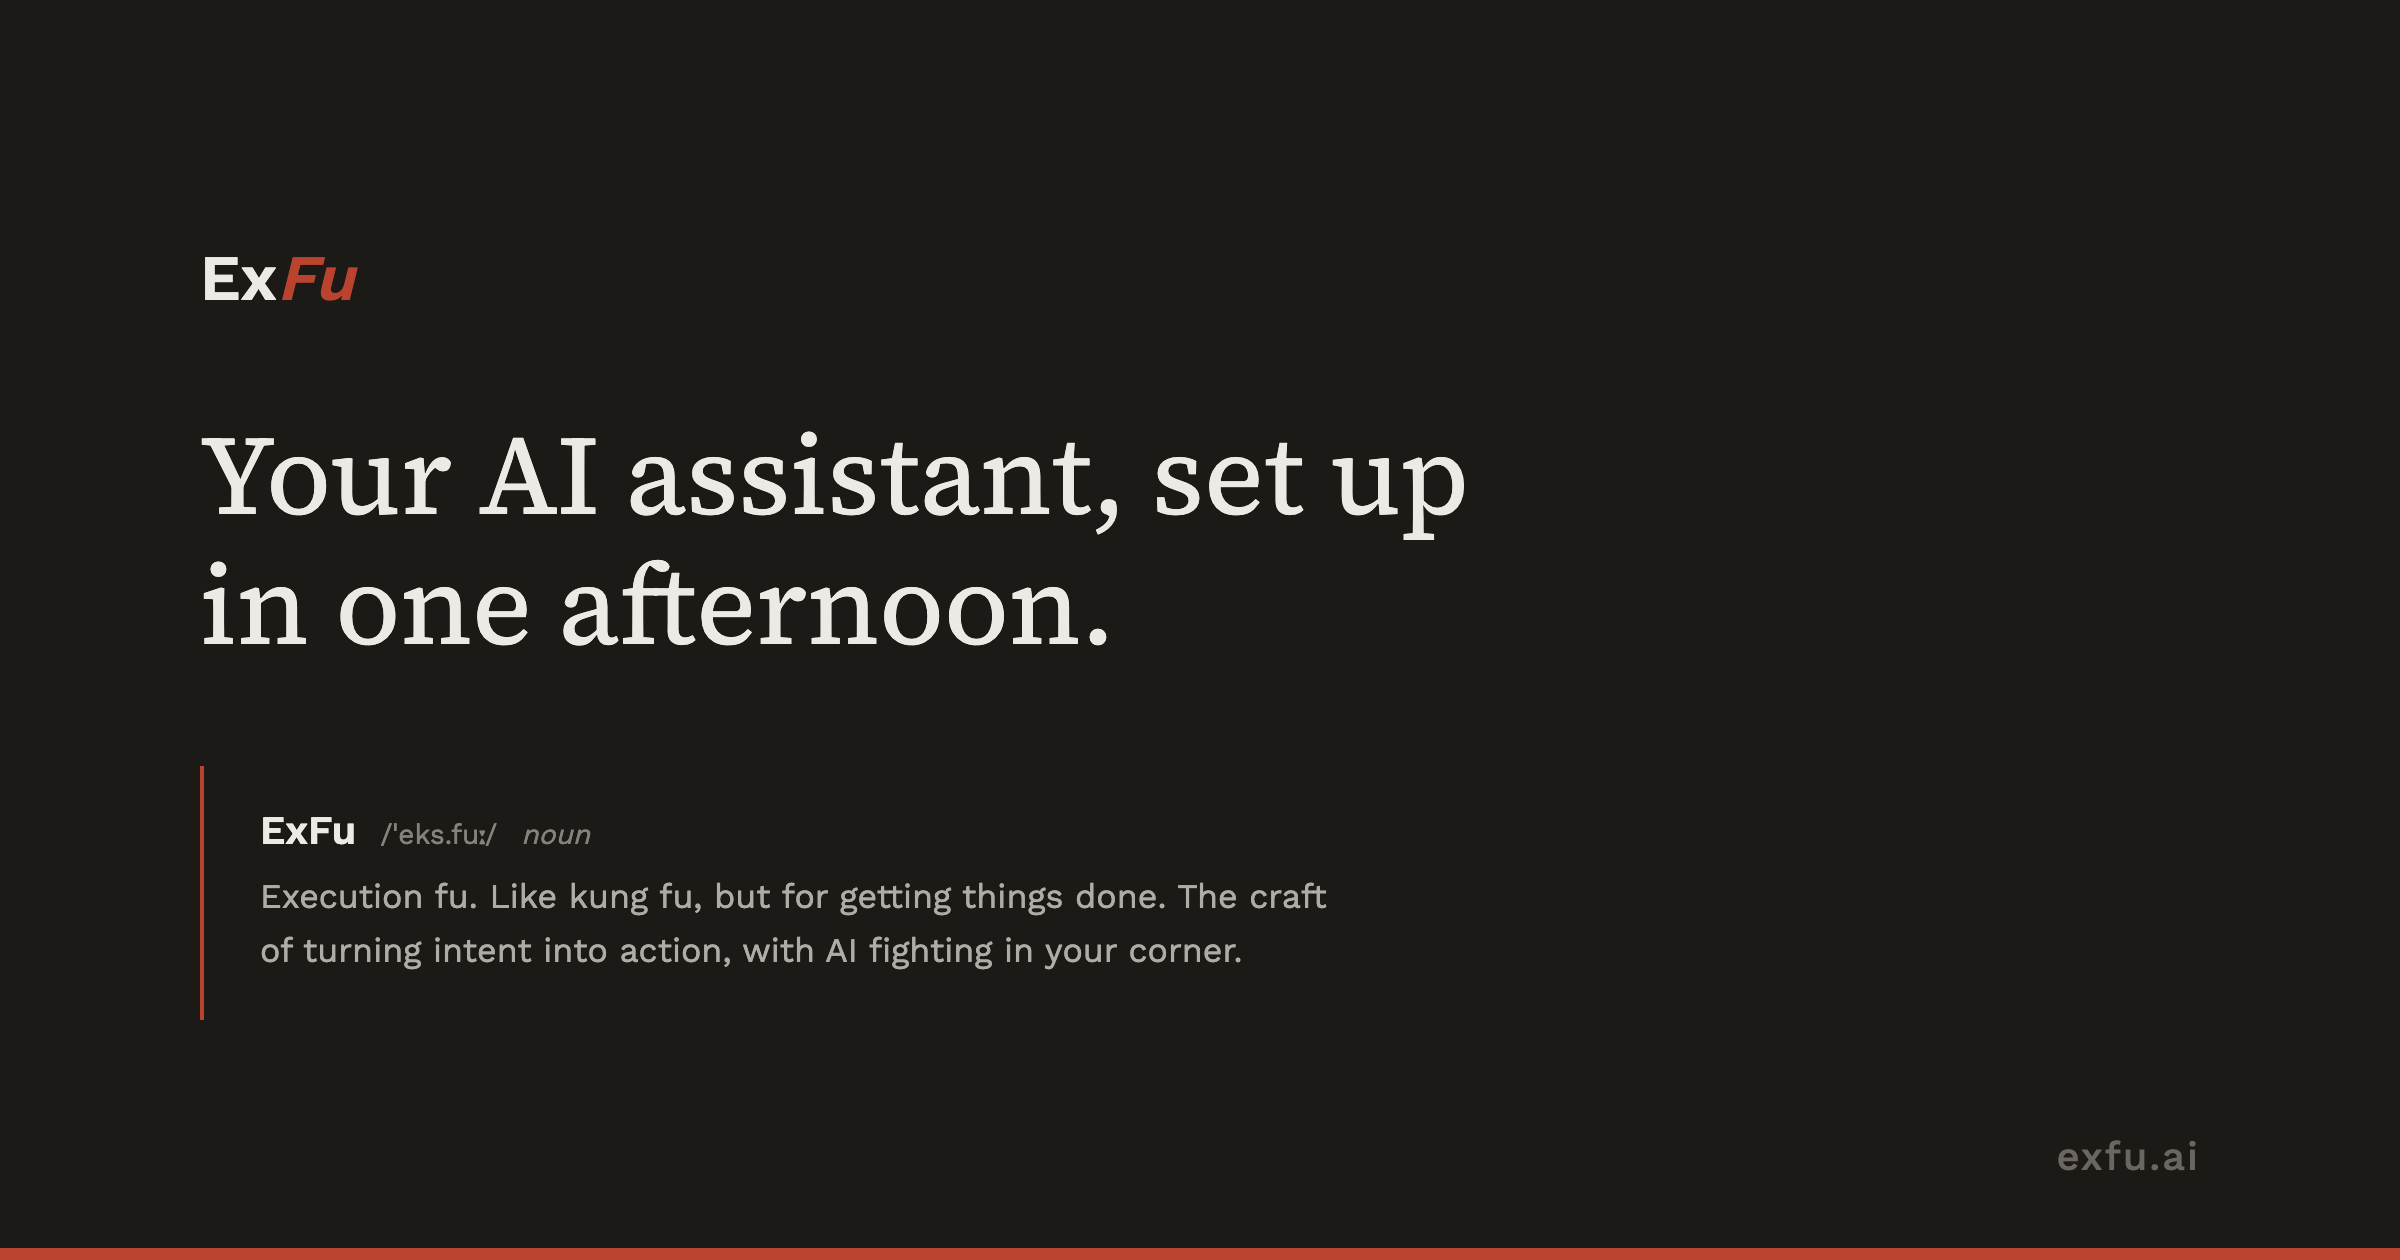
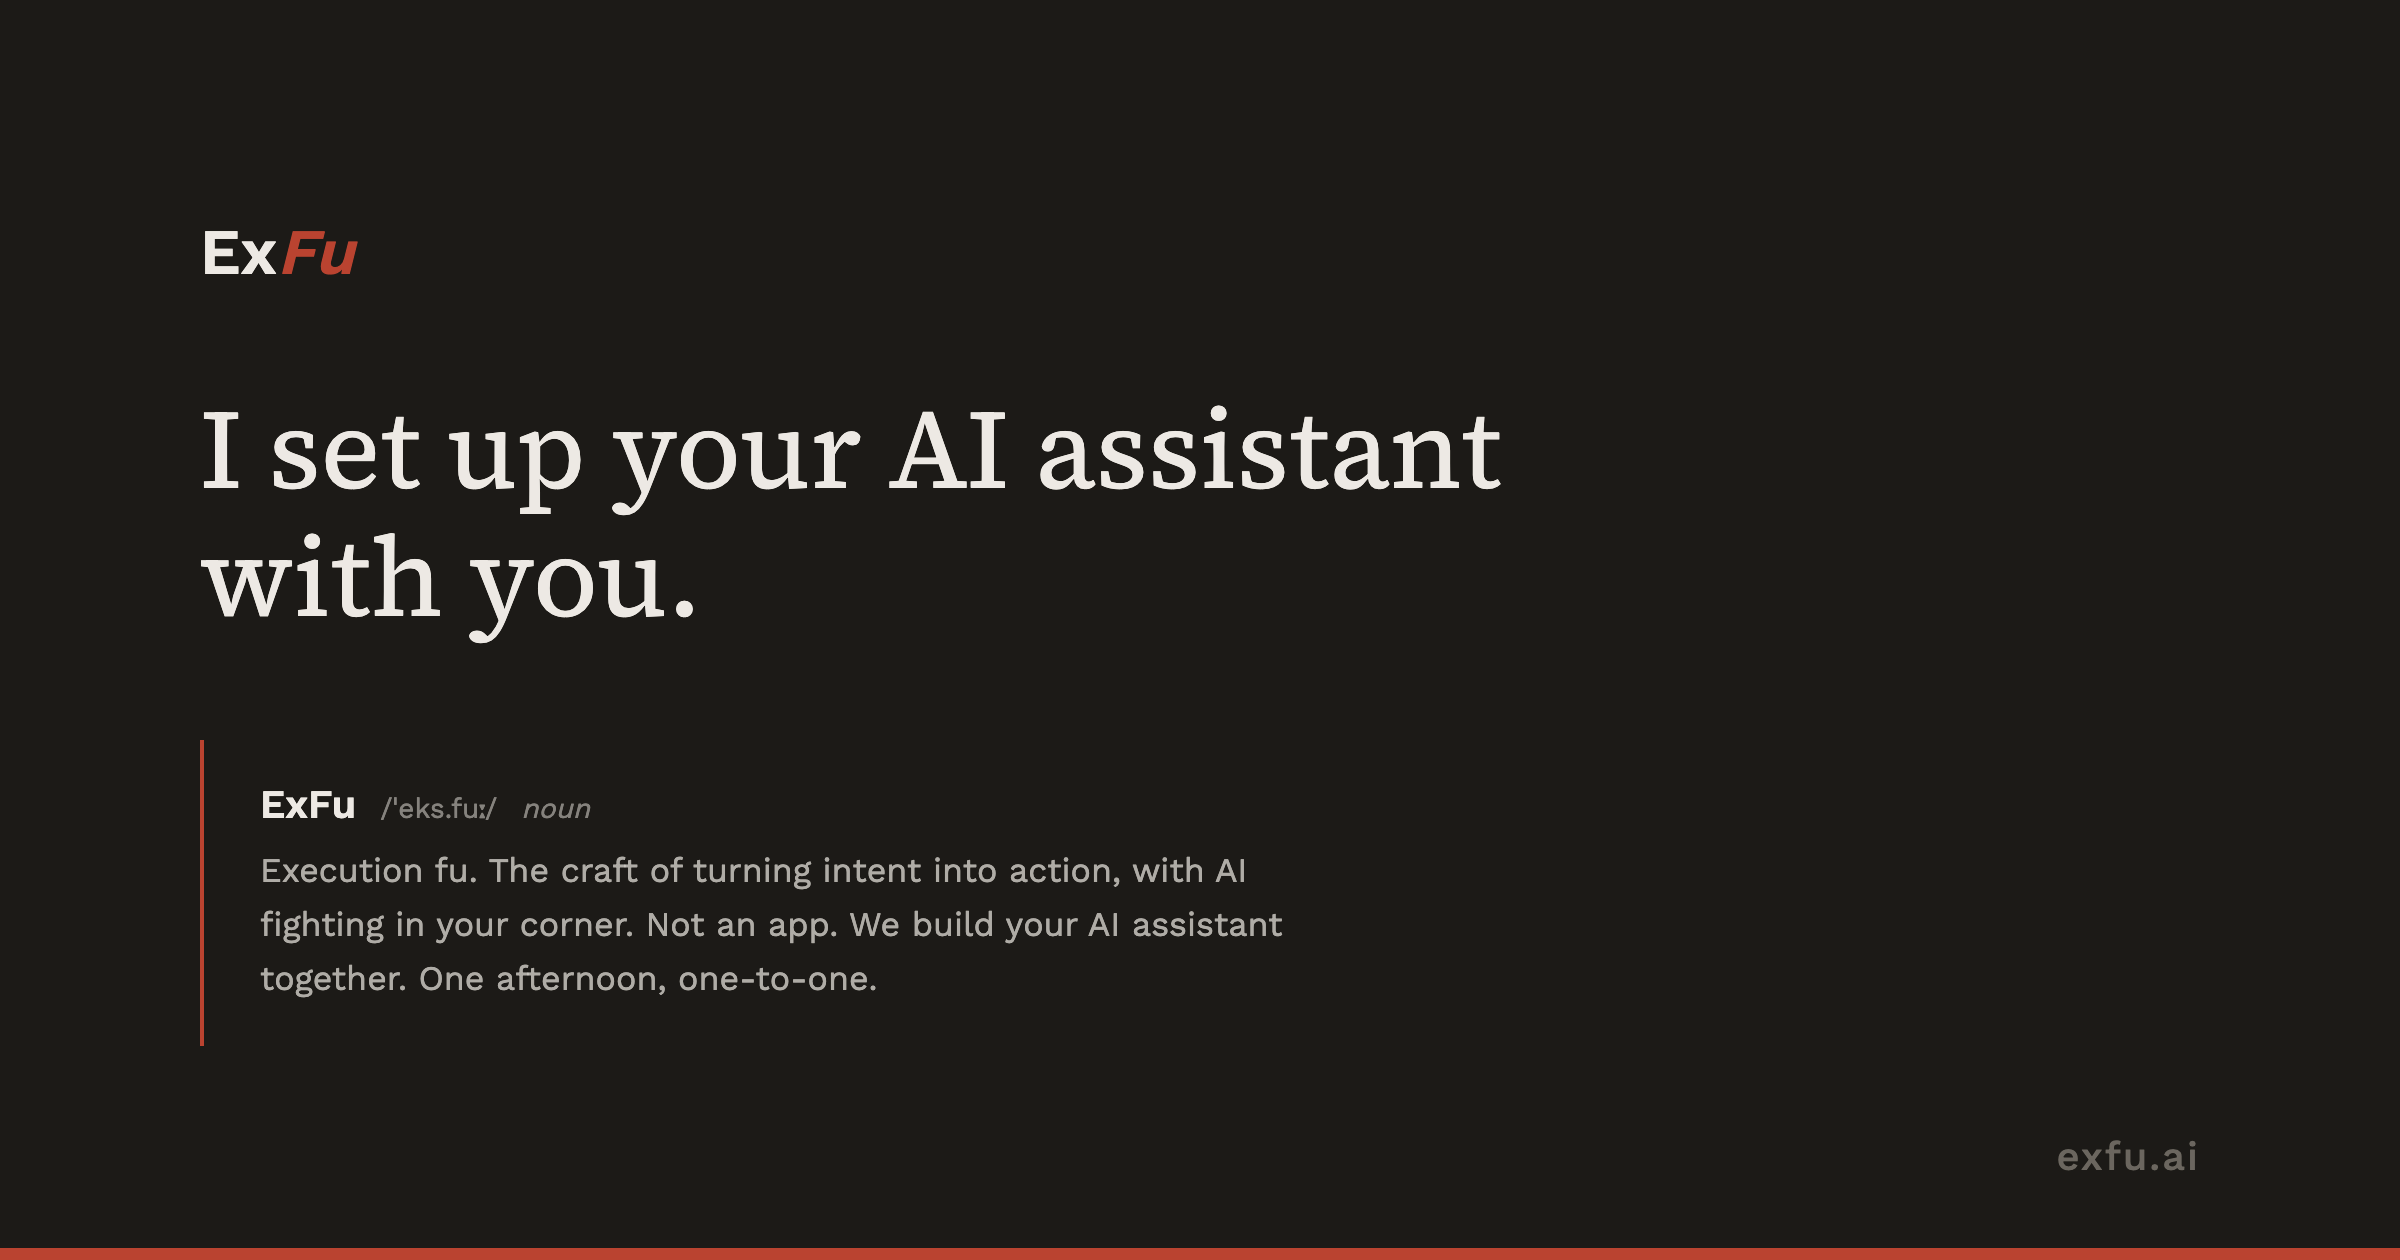
update og-image

Changed region(s): [[0.0625, 0.3095, 0.625, 0.5262], [0.0938, 0.619, 0.5625, 0.8048], [0.0625, 0.1857, 0.1562, 0.2476]]

diff --git a/public/exfu-embed.html b/public/exfu-embed.html
@@ -3,11 +3,16 @@
   <div style="font-size:28px;font-weight:700;margin-bottom:36px;">
     <span style="color:#EDE9E4;">Ex</span><span style="color:#BA432F;font-style:italic;">Fu</span>
   </div>
-  <div style="font-family:'Source Serif 4','Georgia',serif;font-size:36px;font-weight:400;line-height:1.2;color:#EDE9E4;margin-bottom:24px;">
-    I help people get set up with AI that actually works for&nbsp;them.
+  <div style="font-family:'Source Serif 4','Georgia',serif;font-size:36px;font-weight:400;line-height:1.2;color:#EDE9E4;margin-bottom:36px;">
+    I set up your AI assistant with you.
   </div>
-  <div style="font-size:17px;line-height:1.6;color:rgba(237,233,228,0.7);margin-bottom:36px;max-width:520px;">
-    One afternoon, one-to-one. We set up your AI assistant together, so it knows your work, your preferences, and how to help you get stuff done.
+  <div style="border-left:2px solid #BA432F;padding:16px 24px;margin-bottom:36px;max-width:560px;">
+    <div style="margin-bottom:6px;">
+      <span style="font-weight:600;font-size:18px;color:#EDE9E4;">ExFu</span>
+      <span style="font-size:13px;color:rgba(237,233,228,0.5);margin-left:10px;">/ˈeks.fuː/</span>
+      <span style="font-size:13px;font-style:italic;color:rgba(237,233,228,0.5);margin-left:8px;">noun</span>
+    </div>
+    <div style="font-size:16px;line-height:1.6;color:rgba(237,233,228,0.7);">Execution fu. The craft of turning intent into action, with AI fighting in your corner. Not an app. We build your AI assistant together. One afternoon, one-to-one.</div>
   </div>
   <a href="https://exfu.ai" style="display:inline-block;padding:12px 28px;background:#BA432F;color:#fff;font-family:'Work Sans',system-ui,sans-serif;font-size:15px;font-weight:500;text-decoration:none;border-radius:4px;">exfu.ai</a>
   <div style="position:absolute;bottom:0;left:0;right:0;height:4px;background:#BA432F;"></div>

diff --git a/public/og-template.html b/public/og-template.html
@@ -100,14 +100,14 @@
 </head>
 <body>
   <div class="logo"><span class="ex">Ex</span><span class="fu">Fu</span></div>
-  <div class="headline">Your AI assistant, set up in one afternoon.</div>
+  <div class="headline">I set up your AI assistant with you.</div>
   <div class="definition-block">
     <div class="definition-header">
       <span class="definition-term">ExFu</span>
       <span class="definition-pronunciation">/ˈeks.fuː/</span>
       <span class="definition-pos">noun</span>
     </div>
-    <div class="definition-text">Execution fu. Like kung fu, but for getting things done. The craft of turning intent into action, with AI fighting in your corner.</div>
+    <div class="definition-text">Execution fu. The craft of turning intent into action, with AI fighting in your corner. Not an app. We build your AI assistant together. One afternoon, one-to-one.</div>
   </div>
   <div class="url">exfu.ai</div>
   <div class="accent-bar"></div>
